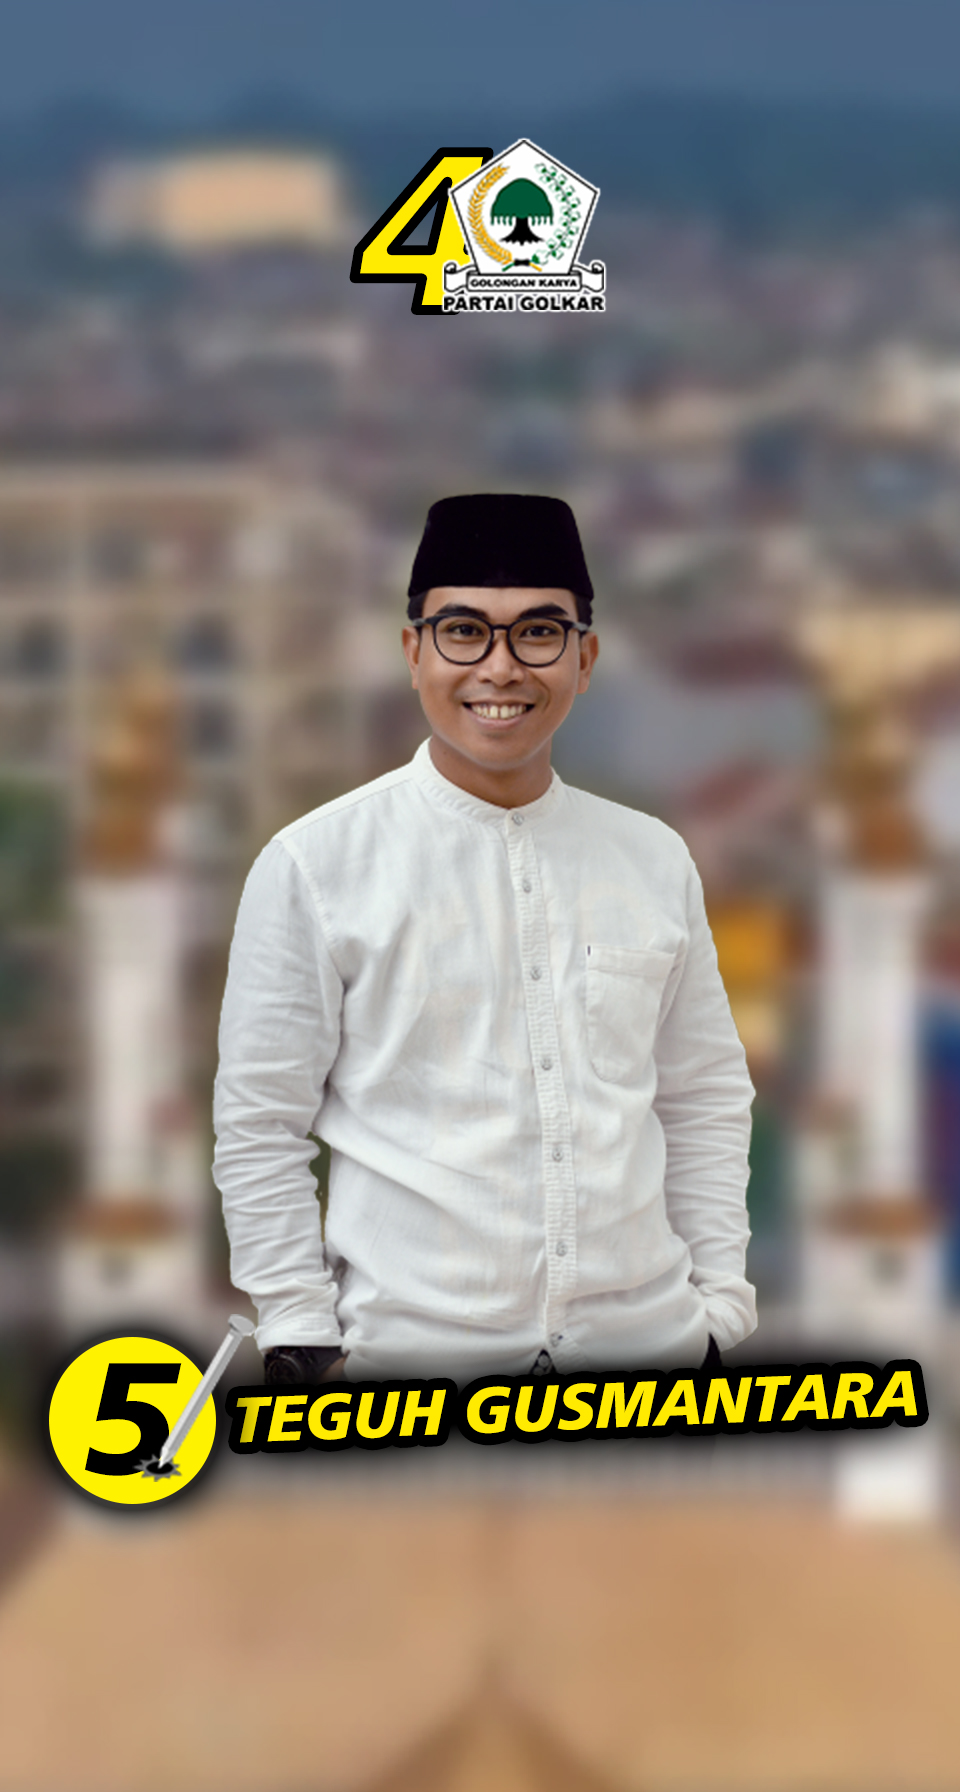
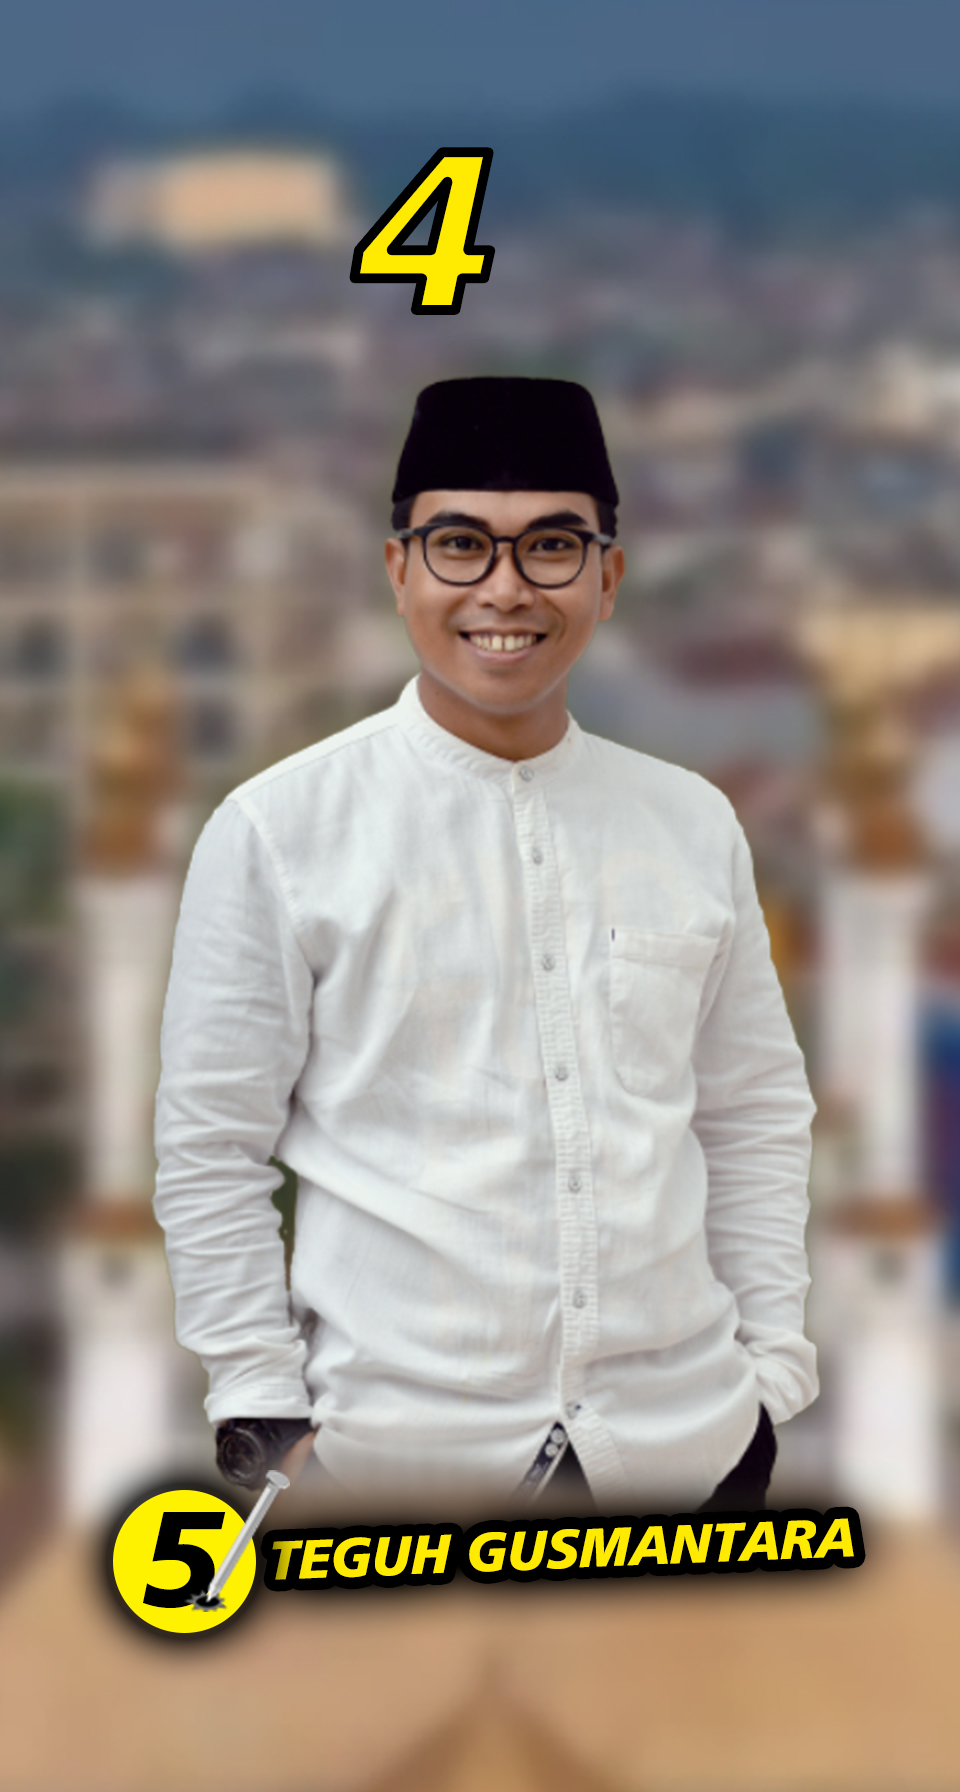
ok

Changed region(s): [[0.0, 0.0625, 1.0, 0.9375], [0.5625, 0.5, 0.625, 0.5938]]

diff --git a/assets/css/style.css b/assets/css/style.css
@@ -1415,7 +1415,7 @@ blockquote {
 --------------------------------------------------------------*/
 #hero {
   background: url("../img/TEGUH-KOTA-TASIKMALAYA-P.jpg") repeat scroll center center/cover;
-  height: 79vh;
+  height: 100%;
   width: 100%;
 }
 
